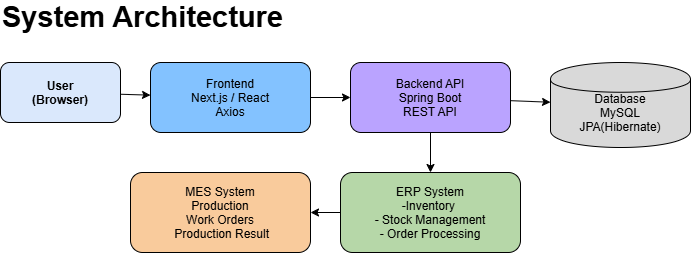
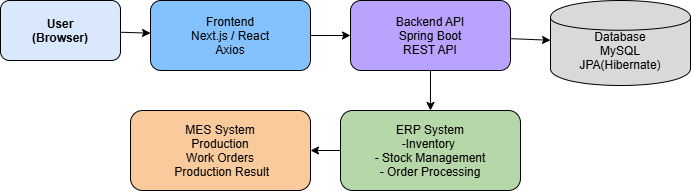
update: diagrams + readme

diff --git a/README.md b/README.md
@@ -1,0 +1,101 @@
+# SHOP - Tennis Racket Commerce
+
+
+![Next.js](https://img.shields.io/badge/Next.js-000000?style=for-the-badge&logo=next.js)
+![React](https://img.shields.io/badge/React-20232A?style=for-the-badge&logo=react)
+![TypeScript](https://img.shields.io/badge/TypeScript-3178C6?style=for-the-badge&logo=typescript)
+![Axios](https://img.shields.io/badge/Axios-5A29E4?style=for-the-badge)
+
+> 테니스 라켓 커머스 플랫폼의 사용자 쇼핑몰 서비스  
+> 상품 탐색부터 주문 생성까지 전체 흐름의 시작점
+
+---
+
+## Overview
+
+이 프로젝트는 단순 쇼핑몰이 아니라  
+ERP / MES와 연결되는 주문 생성 시스템으로 설계되었습니다.
+
+사용자는 상품을 조회하고, SKU 옵션을 선택하고,  
+장바구니 및 주문을 생성하며 이후 ERP 재고 흐름으로 연결됩니다.
+
+---
+
+## Key Features
+
+- 상품 목록 / 상세 조회
+- SKU 옵션 선택
+- 재고 기반 수량 선택
+- 장바구니 관리
+- 주문 생성
+- 주문 목록 / 상세 조회
+
+---
+
+## Screens
+
+Home → Product List → Product Detail → Cart → Checkout → Order
+
+---
+## Core Flow
+
+1. 상품 조회
+2. 옵션(SKU) 선택
+3. 장바구니 담기
+4. 주문 생성
+5. 결제 완료
+6. ERP 재고 차감 연결
+
+
+---
+## Shop System Architecture
+
+<img src="./docs/shop_sys_arch.png" width="1200"/>
+
+## Shop Flow Diagram
+
+<img src="./docs/shop_flow_dg.png" width="1200" height="1000"/>
+
+---
+## Shop ERD
+
+<img src="./docs/shop_erd.png" width="1200"/>
+
+---
+##  Key Points
+
+- SKU 기반 옵션 처리 구조
+- 서버 재고 검증 흐름 반영
+- API 경로 일관성 유지
+- 사용자 경험 중심 UI 설계
+
+---
+##  Tech Stack
+
+| Category  | Stack                          |
+|----------|--------------------------------|
+| Frontend | Next.js, React, TypeScript     |
+| API      | Axios                          |
+| UI       | CSS / Styled Components        |
+
+
+---
+##  Getting Started
+
+```bash
+npm install
+npm run dev
+```
+http://localhost:3000
+---
+## Related Systems
+
+ERP → 재고 관리
+MES → 생산 관리
+
+---
+
+
+이 프로젝트는 단독 서비스가 아니라  
+통합 시스템의 일부입니다.
+
